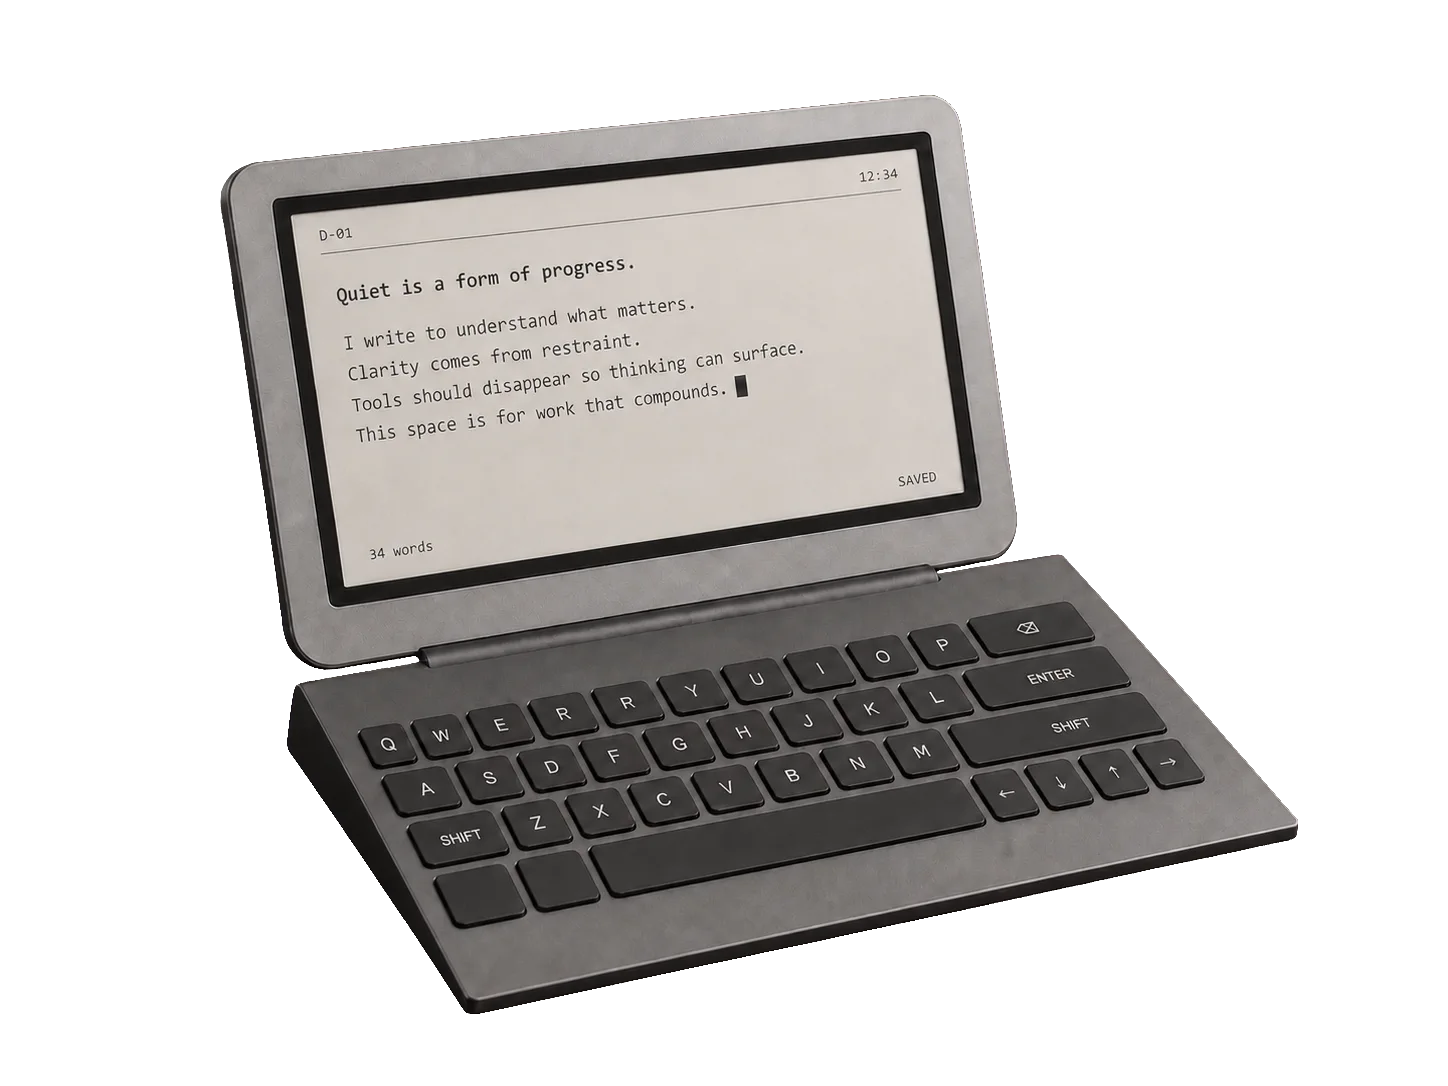
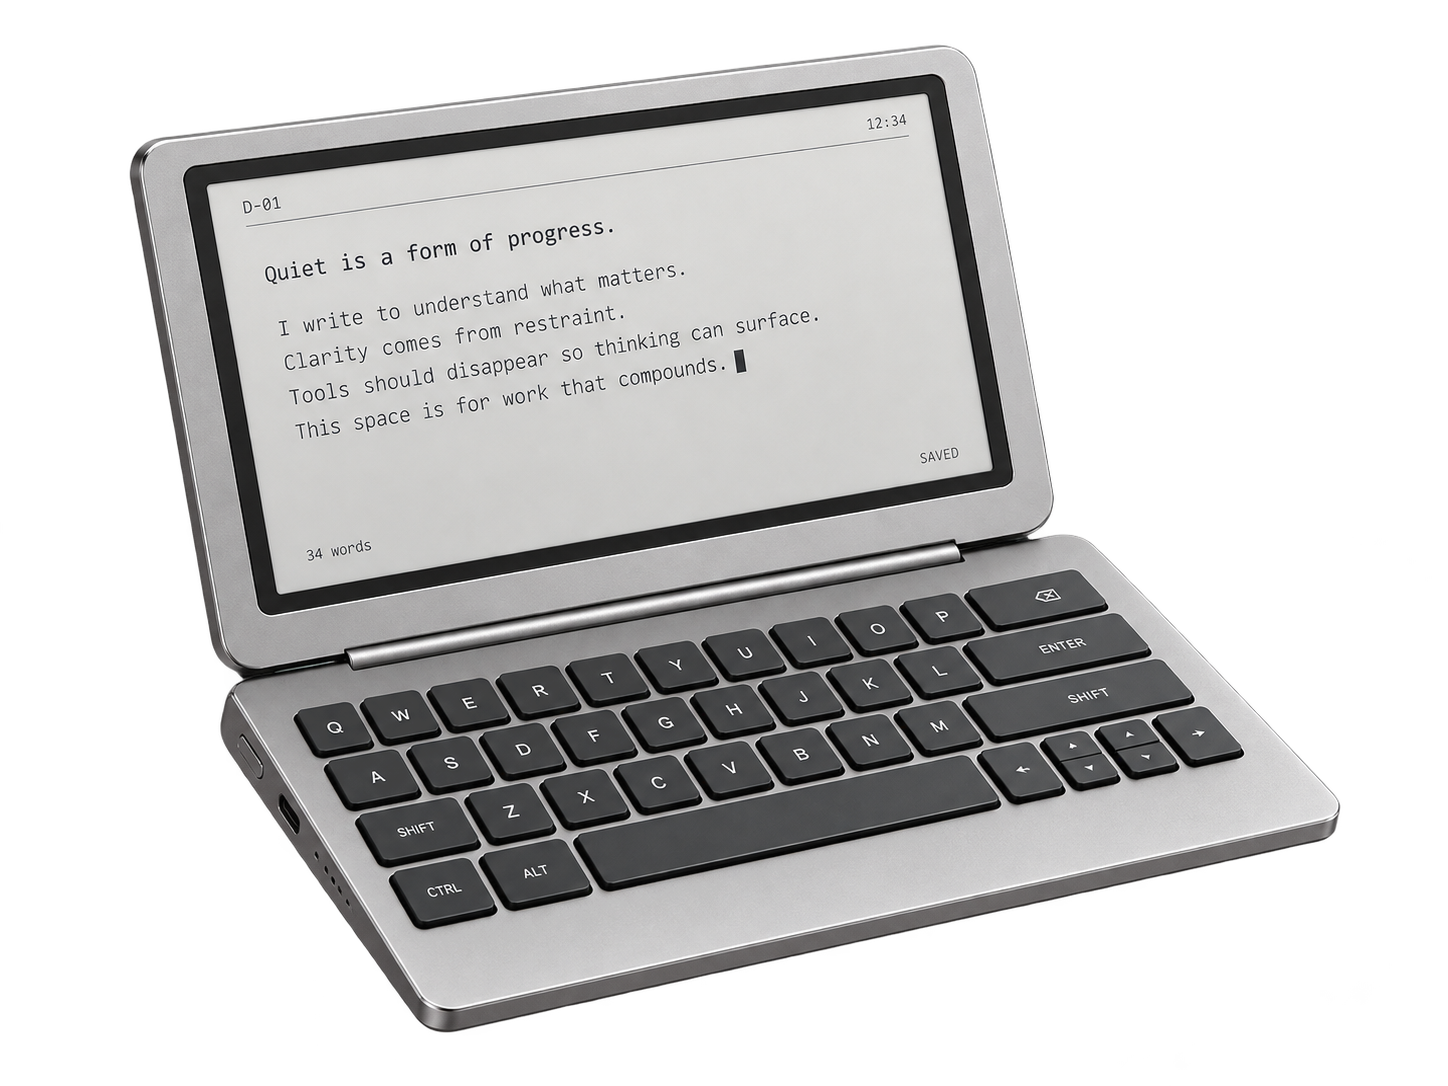
Replace hero and product visuals with lossless renders

diff --git a/en.html b/en.html
@@ -5,16 +5,16 @@
 <meta name="theme-color" content="#eceae4">
 <meta name="description" content="LESSWARE — independent design & engineering studio for focused hardware and local-first software">
 <title>LESSWARE — Focused Products</title>
-<link rel="icon" href="assets/favicon.svg" type="image/svg+xml"><link rel="preload" as="image" href="assets/renders/l01-hero.webp" type="image/webp"><link rel="stylesheet" href="styles.css">
+<link rel="icon" href="assets/favicon.svg" type="image/svg+xml"><link rel="preload" as="image" href="assets/renders/hero.webp" type="image/webp"><link rel="stylesheet" href="styles.css">
 </head>
 <body>
 <header class="site-header"><a class="logo" href="#top">lessware<i></i></a><nav><a href="#objects">Objects</a><a href="#principles">Principles</a><a href="#studio">Studio</a><a href="#contact">Collaborate</a><a class="lang" href="index.html">中文</a></nav></header>
 <main id="top">
-<section class="hero"><div class="hero-copy reveal"><div class="eyebrow">independent design & engineering studio / chongqing / 2026</div><h1>one thing.<br><em>at a time.</em></h1><p>LESSWARE explores focused products for reading, listening and writing — hardware and software that stay quiet, local and clearly bounded.</p><div class="actions"><a class="btn primary" href="#objects">view objects ↓</a><a class="btn link" href="#contact">build with us →</a></div></div><div class="hero-art cutout-visual reveal"><img src="assets/renders/l01-hero.webp" width="1448" height="1086" fetchpriority="high" alt="L–01 LISTEN palm-sized E-Ink and Hi-Fi player concept render on transparent background"></div></section>
+<section class="hero"><div class="hero-copy reveal"><div class="eyebrow">independent design & engineering studio / chongqing / 2026</div><h1>one thing.<br><em>at a time.</em></h1><p>LESSWARE explores focused products for reading, listening and writing — hardware and software that stay quiet, local and clearly bounded.</p><div class="actions"><a class="btn primary" href="#objects">view objects ↓</a><a class="btn link" href="#contact">build with us →</a></div></div><div class="hero-art cutout-visual reveal"><img src="assets/renders/hero.webp" width="1122" height="1402" fetchpriority="high" alt="L–01 LISTEN palm-sized E-Ink and Hi-Fi player concept render on transparent background"></div></section>
 <section id="objects" class="products">
 <nav class="object-index" aria-label="Product index"><a href="#l01"><b>01</b><span>L–01 / LISTEN</span><small>read · listen</small></a><a href="#d01"><b>02</b><span>D–01 / DRAFT</span><small>focused writing hardware</small></a><a href="#typewriter"><b>03</b><span>S–01 / TYPEWRITER</span><small>local-first writing software</small></a></nav>
 
-<article id="l01" class="product light"><div class="product-head reveal"><b>01</b><span>concept product</span><span>2026</span></div><div class="product-layout"><div class="copy reveal"><div class="eyebrow">L–01 / LISTEN</div><h2>reading.<br>music.<br><em>nothing else.</em></h2><p>A palm-sized E-Ink reader and dedicated Hi-Fi player with physical controls, local media and a metal body — reading and music in one quiet tool.</p><div class="chips"><span>E‑Ink</span><span>Hi‑Fi</span><span>physical controls</span><span>metal body</span></div></div><div class="visual cutout-visual reveal"><img src="assets/renders/l01-hero.webp" width="1448" height="1086" loading="lazy" decoding="async" alt="L–01 LISTEN three-quarter concept render on transparent background"></div></div><div class="product-status reveal"><div><span>status</span><br><strong>concept / architecture study</strong></div><div><span>seeking</span><br><strong>electronics · audio · enclosure · manufacturing · investment</strong></div></div><p class="concept-note reveal">Concept visualization, not a photograph of production hardware. Form, structure and materials remain under engineering validation.</p>
+<article id="l01" class="product light"><div class="product-head reveal"><b>01</b><span>concept product</span><span>2026</span></div><div class="product-layout"><div class="copy reveal"><div class="eyebrow">L–01 / LISTEN</div><h2>reading.<br>music.<br><em>nothing else.</em></h2><p>A palm-sized E-Ink reader and dedicated Hi-Fi player with physical controls, local media and a metal body — reading and music in one quiet tool.</p><div class="chips"><span>E‑Ink</span><span>Hi‑Fi</span><span>physical controls</span><span>metal body</span></div></div><div class="visual cutout-visual reveal"><img src="assets/renders/l01-hero.webp" width="1122" height="1402" loading="lazy" decoding="async" alt="L–01 LISTEN three-quarter concept render on transparent background"></div></div><div class="product-status reveal"><div><span>status</span><br><strong>concept / architecture study</strong></div><div><span>seeking</span><br><strong>electronics · audio · enclosure · manufacturing · investment</strong></div></div><p class="concept-note reveal">Concept visualization, not a photograph of production hardware. Form, structure and materials remain under engineering validation.</p>
 <div class="render-gallery reveal" aria-label="L–01 concept visual set"><figure class="render-card"><img src="assets/renders/l01-front.webp" width="1448" height="1086" loading="lazy" decoding="async" alt="L–01 front concept view"><figcaption><span>01</span><b>FRONT</b></figcaption></figure><figure class="render-card"><img src="assets/renders/l01-back.webp" width="1448" height="1086" loading="lazy" decoding="async" alt="L–01 rear concept view"><figcaption><span>02</span><b>BACK</b></figcaption></figure><figure class="render-card"><img src="assets/renders/l01-side.webp" width="1448" height="1086" loading="lazy" decoding="async" alt="L–01 side profile concept view"><figcaption><span>03</span><b>PROFILE</b></figcaption></figure><figure class="render-card"><img src="assets/renders/l01-rest.webp" width="1448" height="1086" loading="lazy" decoding="async" alt="L–01 rest-state concept view"><figcaption><span>04</span><b>REST</b></figcaption></figure><figure class="render-card large"><img src="assets/renders/l01-exploded.webp" width="1448" height="1086" loading="lazy" decoding="async" alt="L–01 exploded assembly concept view"><figcaption><span>05</span><b>EXPLODED</b></figcaption></figure><figure class="render-card large"><img src="assets/renders/l01-hand.webp" width="1448" height="1086" loading="lazy" decoding="async" alt="L–01 handheld scale concept view"><figcaption><span>06</span><b>IN HAND</b></figcaption></figure><figure class="render-card large"><img src="assets/renders/l01-cmf.webp" width="1448" height="1086" loading="lazy" decoding="async" alt="L–01 anodized aluminum, paperlike E-Ink, soft-touch controls and orange print CMF concept"><figcaption><span>07</span><b>CMF / ALUMINUM · PAPER DISPLAY · SOFT-TOUCH</b></figcaption></figure></div></article>
 
 <article id="d01" class="product dark"><div class="product-head reveal"><b>02</b><span>concept product</span><span>2026</span></div><div class="product-layout reverse"><div class="copy reveal"><div class="eyebrow">D–01 / DRAFT</div><h2>write first.<br><em>edit later.</em></h2><p>A foldable E-Ink writing machine. Open it, type, save locally, then export over the local network. The keyboard, screen and writing flow are the whole product.</p><div class="chips"><span>E‑Ink</span><span>physical keyboard</span><span>local storage</span><span>LAN export</span></div></div><div class="visual cutout-visual reveal"><img src="assets/renders/d01-hero.webp" width="1448" height="1086" loading="lazy" decoding="async" alt="D–01 DRAFT foldable E-Ink writer three-quarter concept render on transparent background"></div></div><div class="product-status reveal"><div><span>status</span><br><strong>concept / interaction study</strong></div><div><span>seeking</span><br><strong>display · keyboard · enclosure · manufacturing</strong></div></div><p class="concept-note reveal">Concept visualization, not a photograph of production hardware. Form, structure and materials remain under engineering validation.</p>

diff --git a/index.html b/index.html
@@ -5,7 +5,7 @@
 <meta name="theme-color" content="#eceae4">
 <meta name="description" content="LESSWARE — 专注型硬件与本地优先软件的独立设计与工程工作室">
 <title>LESSWARE — 专注型产品</title>
-<link rel="icon" href="assets/favicon.svg" type="image/svg+xml"><link rel="preload" as="image" href="assets/renders/l01-hero.webp" type="image/webp"><link rel="stylesheet" href="styles.css">
+<link rel="icon" href="assets/favicon.svg" type="image/svg+xml"><link rel="preload" as="image" href="assets/renders/hero.webp" type="image/webp"><link rel="stylesheet" href="styles.css">
 </head>
 <body>
 <header class="site-header"><a class="logo" href="#top">lessware<i></i></a><nav>
@@ -15,7 +15,7 @@
 <section class="hero">
 <div class="hero-copy reveal"><div class="eyebrow">独立设计与工程工作室 / 重庆 / 2026</div><h1>一次，<br>只做<em>一件事。</em></h1><p>LESSWARE 探索低干扰、边界清晰的专用产品：阅读、聆听与写作，让硬件和软件都退回工具本身。</p>
 <div class="actions"><a class="btn primary" href="#objects">查看产品 ↓</a><a class="btn link" href="#contact">与我们合作 →</a></div></div>
-<div class="hero-art cutout-visual reveal"><img src="assets/renders/l01-hero.webp" width="1448" height="1086" fetchpriority="high" alt="L–01 LISTEN 掌上墨水屏与 Hi-Fi 播放器透明背景概念渲染"></div>
+<div class="hero-art cutout-visual reveal"><img src="assets/renders/hero.webp" width="1122" height="1402" fetchpriority="high" alt="L–01 LISTEN 掌上墨水屏与 Hi-Fi 播放器透明背景概念渲染"></div>
 </section>
 
 <section id="objects" class="products">
@@ -29,7 +29,7 @@
 <div class="product-head reveal"><b>01</b><span>概念产品</span><span>2026</span></div>
 <div class="product-layout"><div class="copy reveal"><div class="eyebrow">L–01 / LISTEN</div><h2>阅读。<br>音乐。<br><em>仅此而已。</em></h2><p>一台掌心大小的墨水屏阅读与 Hi‑Fi 播放设备。实体按键、音量滚轮、本地媒体和金属机身，把阅读与音乐留在同一件安静的工具里。</p>
 <div class="chips"><span>E‑Ink</span><span>Hi‑Fi</span><span>实体控制</span><span>金属机身</span></div></div>
-<div class="visual cutout-visual reveal"><img src="assets/renders/l01-hero.webp" width="1448" height="1086" loading="lazy" decoding="async" alt="L–01 LISTEN 45 度透明背景产品概念渲染"></div></div>
+<div class="visual cutout-visual reveal"><img src="assets/renders/l01-hero.webp" width="1122" height="1402" loading="lazy" decoding="async" alt="L–01 LISTEN 45 度透明背景产品概念渲染"></div></div>
 <div class="product-status reveal"><div><span>阶段</span><br><strong>概念设计 / 架构研究</strong></div><div><span>寻求</span><br><strong>电子 · 音频 · 结构 · 制造 · 投资</strong></div></div>
 <p class="concept-note reveal">概念视觉，非实机照片。造型、结构与材料仍在工程验证中。</p>
 <div class="render-gallery reveal" aria-label="L–01 概念视觉集">
